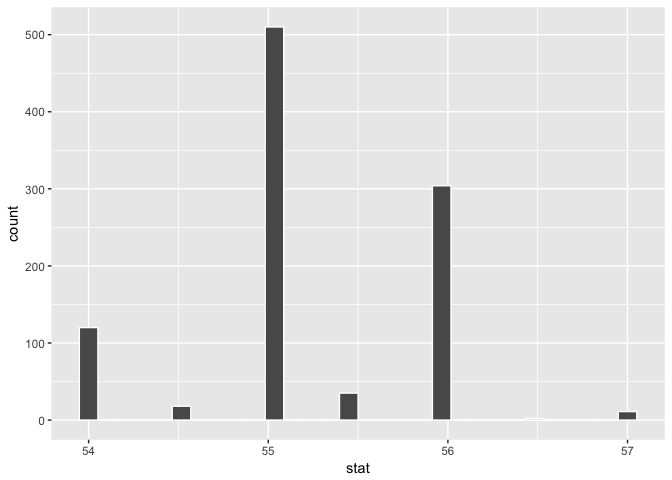
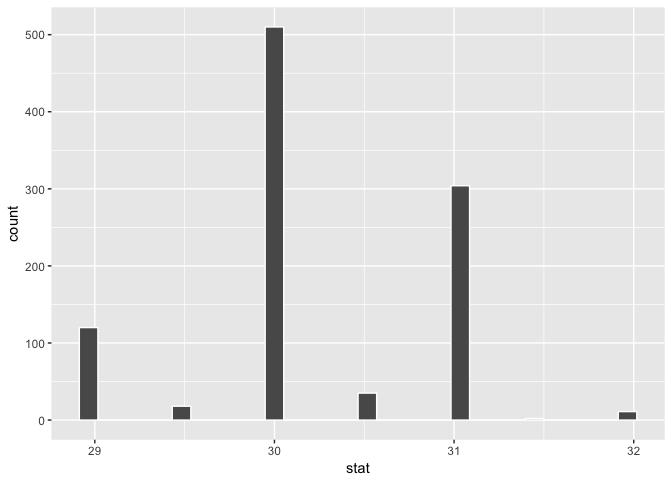
Change from Med to med and sd to sigma

diff --git a/examples/flights_examples.md b/examples/flights_examples.md
@@ -60,7 +60,7 @@ One numerical variable (median)
 ``` r
 fli_small %>%
   specify(response = arr_delay) %>% # alt: arr_delay ~ NULL (or arr_delay ~ 1)
-  hypothesize(null = "point", Med = 55) %>%
+  hypothesize(null = "point", med = 55) %>%
   generate(reps = params$rep_times, type = "bootstrap") %>%
   calculate(stat = "median", na.rm = TRUE)
 ```
@@ -68,16 +68,16 @@ fli_small %>%
     ## # A tibble: 5,000 x 2
     ##    replicate  stat
     ##        <int> <dbl>
-    ##  1         1  54.0
-    ##  2         2  54.0
-    ##  3         3  54.0
-    ##  4         4  55.0
-    ##  5         5  56.5
-    ##  6         6  55.0
-    ##  7         7  55.0
-    ##  8         8  55.5
-    ##  9         9  57.0
-    ## 10        10  57.0
+    ##  1         1  -9.0
+    ##  2         2  -9.0
+    ##  3         3  -9.0
+    ##  4         4  -8.0
+    ##  5         5  -6.5
+    ##  6         6  -8.0
+    ##  7         7  -8.0
+    ##  8         8  -7.5
+    ##  9         9  -6.0
+    ## 10        10  -6.0
     ## # ... with 4,990 more rows
 
 One numerical variable (standard deviation)
@@ -87,7 +87,7 @@ One numerical variable (standard deviation)
 ``` r
 fli_small %>%
   specify(response = arr_delay) %>% # alt: arr_delay ~ NULL (or arr_delay ~ 1)
-  hypothesize(null = "point", sd = 40) %>%
+  hypothesize(null = "point", sigma = 40) %>%
   generate(reps = params$rep_times, type = "bootstrap") %>%
   calculate(stat = "sd")
 ```
@@ -112,24 +112,24 @@ fli_small %>%
 ``` r
 fli_small %>%
   specify(response = arr_delay) %>% # alt: arr_delay ~ NULL (or arr_delay ~ 1)
-  hypothesize(null = "point", sd = 40) %>%
+  hypothesize(null = "point", sigma = 40) %>%
   generate(reps = params$rep_times, type = "bootstrap") %>%
   calculate(stat = "sd", na.rm = TRUE)
 ```
 
     ## # A tibble: 5,000 x 2
-    ##    replicate     stat
-    ##        <int>    <dbl>
-    ##  1         1 38.82159
-    ##  2         2 37.75836
-    ##  3         3 36.87100
-    ##  4         4 43.16722
-    ##  5         5 35.60416
-    ##  6         6 29.51281
-    ##  7         7 38.17352
-    ##  8         8 37.11360
-    ##  9         9 27.87567
-    ## 10        10 36.05444
+    ##    replicate   stat
+    ##        <int>  <dbl>
+    ##  1         1     NA
+    ##  2         2     NA
+    ##  3         3 36.871
+    ##  4         4     NA
+    ##  5         5     NA
+    ##  6         6     NA
+    ##  7         7     NA
+    ##  8         8     NA
+    ##  9         9     NA
+    ## 10        10     NA
     ## # ... with 4,990 more rows
 
 One categorical (2 level) variable

diff --git a/examples/profiles_examples.md b/examples/profiles_examples.md
@@ -15,16 +15,16 @@ library(infer)
 set.seed(2017)
 prof_small <- profiles %>% 
   dplyr::sample_n(size = 500) %>% 
-  dplyr::mutate(frisco = dplyr::case_when(
+  dplyr::mutate(city = dplyr::case_when(
     str_detect(location, "san fran") ~ "san fran",
     !str_detect(location, "san fran") ~ "not san fran"
   )) %>% 
-  dplyr::select(age, sex, frisco, drugs, height, status)
+  dplyr::select(age, sex, city, drugs, height, status)
 ```
 
 -   `height` and `age` are numerical variables.
 -   `sex` has two categories (`"m"`, `"f"`)
--   `frisco` has two categories (`"san fran"`, `"not san fran"`)
+-   `city` has two categories (`"san fran"`, `"not san fran"`)
 -   `drugs` has three categories (`"never"`, `"sometimes"`, `"often"`) - Also has missing values
 -   `status` has three categories (`"single"`, `"available"`, `"seeing someone"`)
 
@@ -48,7 +48,7 @@ One numerical variable (median)
 ``` r
 prof_small %>%
   specify(response = age) %>% # alt: age ~ NULL (or age ~ 1)
-  hypothesize(null = "point", Med = 55) %>% 
+  hypothesize(null = "point", med = 55) %>% 
   generate(reps = 1000, type = "bootstrap") %>% 
   calculate(stat = "median") %>% 
   visualize()
@@ -76,7 +76,7 @@ Two categorical (2 level) variables
 
 ``` r
 prof_small %>%
-  specify(sex ~ frisco) %>% # alt: response = sex, explanatory = vs
+  specify(sex ~ city) %>% # alt: response = sex, explanatory = vs
   hypothesize(null = "independence") %>%
   generate(reps = 1000, type = "permute") %>%
   calculate(stat = "diff in props") %>% 
@@ -89,7 +89,7 @@ One categorical (&gt;2 level) - GoF
 
 ``` r
 prof_small %>%
-  specify(drugs ~ NULL) %>% # alt: response = frisco
+  specify(drugs ~ NULL) %>% # alt: response = drugs
   hypothesize(null = "point", 
               p = c("never" = .7, "sometimes" = .25, "often" = .05)) %>%
   generate(reps = 1000, type = "simulate") %>%
@@ -142,7 +142,7 @@ One numerical one categorical (&gt;2 levels) - ANOVA
 
 ``` r
 prof_small %>%
-  specify(age ~ status) %>% # alt: response = age, explanatory = frisco
+  specify(age ~ status) %>% # alt: response = age, explanatory = status
   hypothesize(null = "independence") %>%
   generate(reps = 1000, type = "permute") %>%
   calculate(stat = "F") %>% 
@@ -218,7 +218,7 @@ Two categorical variables (diff in proportions)
 
 ``` r
 prof_small %>%
-  specify(sex ~ frisco) %>%
+  specify(sex ~ city) %>%
   generate(reps = 1000, type = "bootstrap") %>%
   calculate(stat = "diff in props") %>% 
   visualize()

diff --git a/README.md b/README.md
@@ -39,7 +39,7 @@ One numerical variable (median)
 
     mtcars %>%
       specify(response = mpg) %>% # alt: mpg ~ NULL (or mpg ~ 1)
-      hypothesize(null = "point", Med = 26) %>% 
+      hypothesize(null = "point", med = 26) %>% 
       generate(reps = 100, type = "bootstrap") %>% 
       calculate(stat = "median")
 
